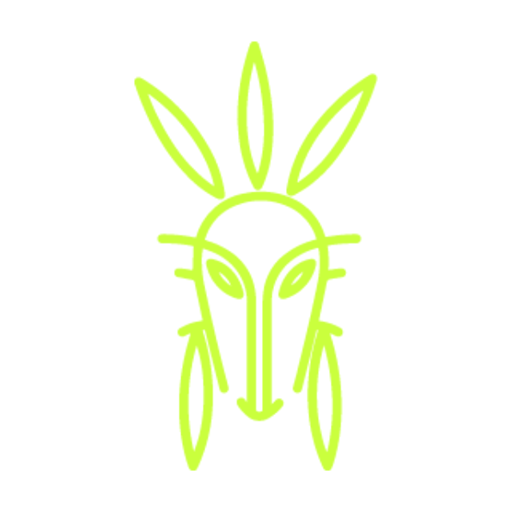
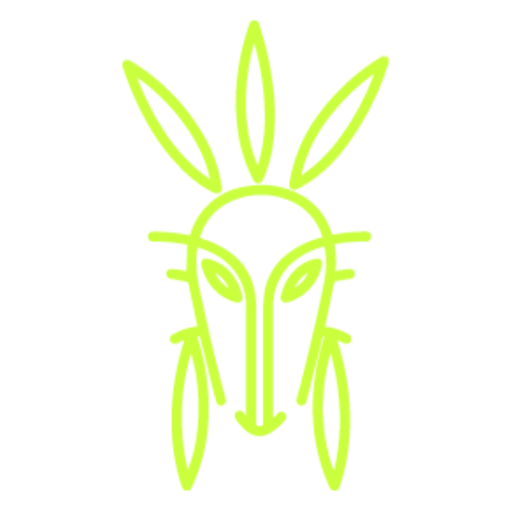
test(web): verify botanical art for every crop

Changed region(s): [[0.2188, 0.0938, 0.7812, 0.9688], [0.4375, 0.0312, 0.5625, 0.2812]]

diff --git a/sdc-app-chaman/src/app/main/modulo-productor/lotes/detalles-lote/card-etapas-fenologicas/phenology-plant.component.spec.ts b/sdc-app-chaman/src/app/main/modulo-productor/lotes/detalles-lote/card-etapas-fenologicas/phenology-plant.component.spec.ts
@@ -1,0 +1,41 @@
+import { ComponentFixture, TestBed } from '@angular/core/testing';
+import { CULTIVOS_DISPONIBLES } from 'modelos/src';
+import { PhenologyPlantComponent } from './phenology-plant.component';
+
+describe('PhenologyPlantComponent', () => {
+  let fixture: ComponentFixture<PhenologyPlantComponent>;
+
+  beforeEach(async () => {
+    await TestBed.configureTestingModule({ imports: [PhenologyPlantComponent] }).compileComponents();
+    fixture = TestBed.createComponent(PhenologyPlantComponent);
+  });
+
+  it('renderiza una ilustracion botanica especifica para los diez cultivos disponibles', () => {
+    for (const cultivo of CULTIVOS_DISPONIBLES) {
+      fixture.componentRef.setInput('cultivo', cultivo);
+      fixture.detectChanges();
+
+      const key = cultivo
+        .normalize('NFD')
+        .replace(/[\u0300-\u036f]/g, '')
+        .toLowerCase();
+      const shell = fixture.nativeElement.querySelector(`.crop-${key}`);
+
+      expect(shell).withContext(`Ilustracion faltante para ${cultivo}`).not.toBeNull();
+      expect(shell.querySelectorAll('svg').length).withContext(`SVG faltante para ${cultivo}`).toBe(1);
+    }
+  });
+
+  it('aplica fase, escala acotada y resaltado del estadio actual', () => {
+    fixture.componentRef.setInput('cultivo', 'Arveja');
+    fixture.componentRef.setInput('fase', 'reproductive');
+    fixture.componentRef.setInput('crecimiento', 180);
+    fixture.componentRef.setInput('actual', true);
+    fixture.detectChanges();
+
+    const shell = fixture.nativeElement.querySelector('.botanical-shell');
+    expect(shell.classList.contains('phase-reproductive')).toBeTrue();
+    expect(shell.classList.contains('is-current')).toBeTrue();
+    expect(fixture.componentInstance.escala).toBe(1);
+  });
+});

diff --git a/sdc-app-chaman/src/app/main/modulo-productor/lotes/detalles-lote/card-etapas-fenologicas/card-etapas-fenologicas.component.scss b/sdc-app-chaman/src/app/main/modulo-productor/lotes/detalles-lote/card-etapas-fenologicas/card-etapas-fenologicas.component.scss
@@ -496,7 +496,7 @@
     radial-gradient(ellipse at 22% 28%, rgba(202, 176, 98, 0.26) 0 2px, transparent 3px),
     radial-gradient(ellipse at 68% 65%, rgba(136, 174, 71, 0.22) 0 2px, transparent 3px),
     linear-gradient(#725238 0 22%, #563824 23% 64%, #412b20 65%);
-  bottom: 92px;
+  bottom: 98px;
   box-shadow: inset 0 3px rgba(228, 194, 119, 0.13);
   height: 14px;
   left: 0;

diff --git a/sdc-app-chaman/src/app/main/nav/nav.component.scss b/sdc-app-chaman/src/app/main/nav/nav.component.scss
@@ -61,7 +61,7 @@ a {
   width: 4.55rem;
   height: 4.55rem;
   border-radius: 999px;
-  padding: 0.3rem;
+  padding: 0.16rem;
   display: grid;
   place-items: center;
   animation: chamanPulse 2.4s ease-in-out infinite;
@@ -69,8 +69,8 @@ a {
 }
 
 .chaman-menu-launcher img {
-  width: 94%;
-  height: 94%;
+  width: 100%;
+  height: 100%;
   object-fit: contain;
 }
 

diff --git a/sdc-app-chaman/src/app/auxiliares/componentes/asistente-chaman/asistente-chaman.component.scss b/sdc-app-chaman/src/app/auxiliares/componentes/asistente-chaman/asistente-chaman.component.scss
@@ -32,7 +32,7 @@
   display: grid;
   place-items: center;
   cursor: pointer;
-  padding: 0.3rem;
+  padding: 0.16rem;
   transition:
     transform 0.18s ease,
     box-shadow 0.18s ease;
@@ -44,8 +44,8 @@
 }
 
 .assistant-launcher img {
-  width: 94%;
-  height: 94%;
+  width: 100%;
+  height: 100%;
   object-fit: contain;
 }
 
